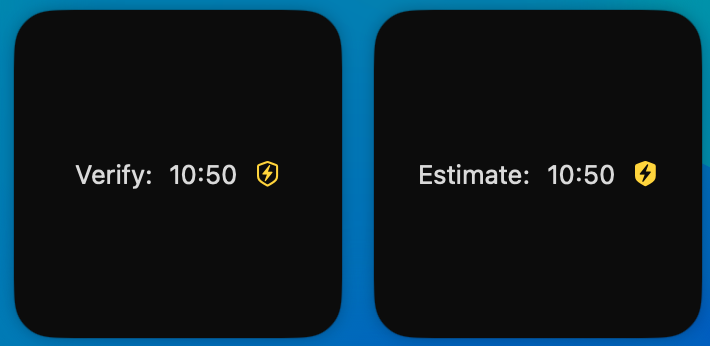
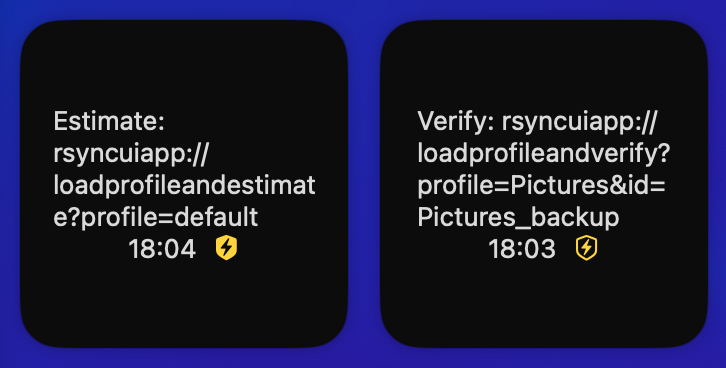
update

Changed region(s): [[0.0, 0.0, 1.0, 1.0], [0.5577, 0.289, 0.9296, 0.7225], [0.062, 0.289, 0.4338, 0.7225]]

diff --git a/content/en/blog/Version230.md b/content/en/blog/Version230.md
@@ -8,12 +8,16 @@ categories = ["changelog"]
 
 ### Version 2.3.0 (build 129) - in development
 
+Update: 14 January 2025
+
 To be released sometime in February 2025,
 
 Version 2.2.5 introduced the primary new function: deep links. Deep links enable access to application functions. In RsyncUI, two main deep link functions are now available: verify a remote file and estimate and synchronize. MacOS supports widgets, which provide a set of features, such as opening URLs. For RsyncUI, these features can be initiated by simply clicking on a widget. The embedded URL in the widget automatically launches RsyncUI and initiates the selected action.
 
-During development, I created two widgets for testing purposes. Currently, the URL links are constants and cannot be modified for demonstration purposes. However, the widgets function effectively, initiating the appropriate actions upon clicking.
+In development, RsyncUI now allows users to save URLs for both Estimate and Verify. The widgets automatically retrieve the saved values and, by one click on the widget, initiate the appropriate action.
 
 Enabling widgets requires minimal code, but there are still new concepts to study and test. The objectives for RsyncUI widgets are to enable two widgets similar to the ones mentioned above, allowing users to select values and potentially collect some minor information about the profile.
 
 {{< figure src="/images/230/widgets.png" alt="" position="center" style="border-radius: 8px;" >}}
+
+{{< figure src="/images/230/saveurl.png" alt="" position="center" style="border-radius: 8px;" >}}
